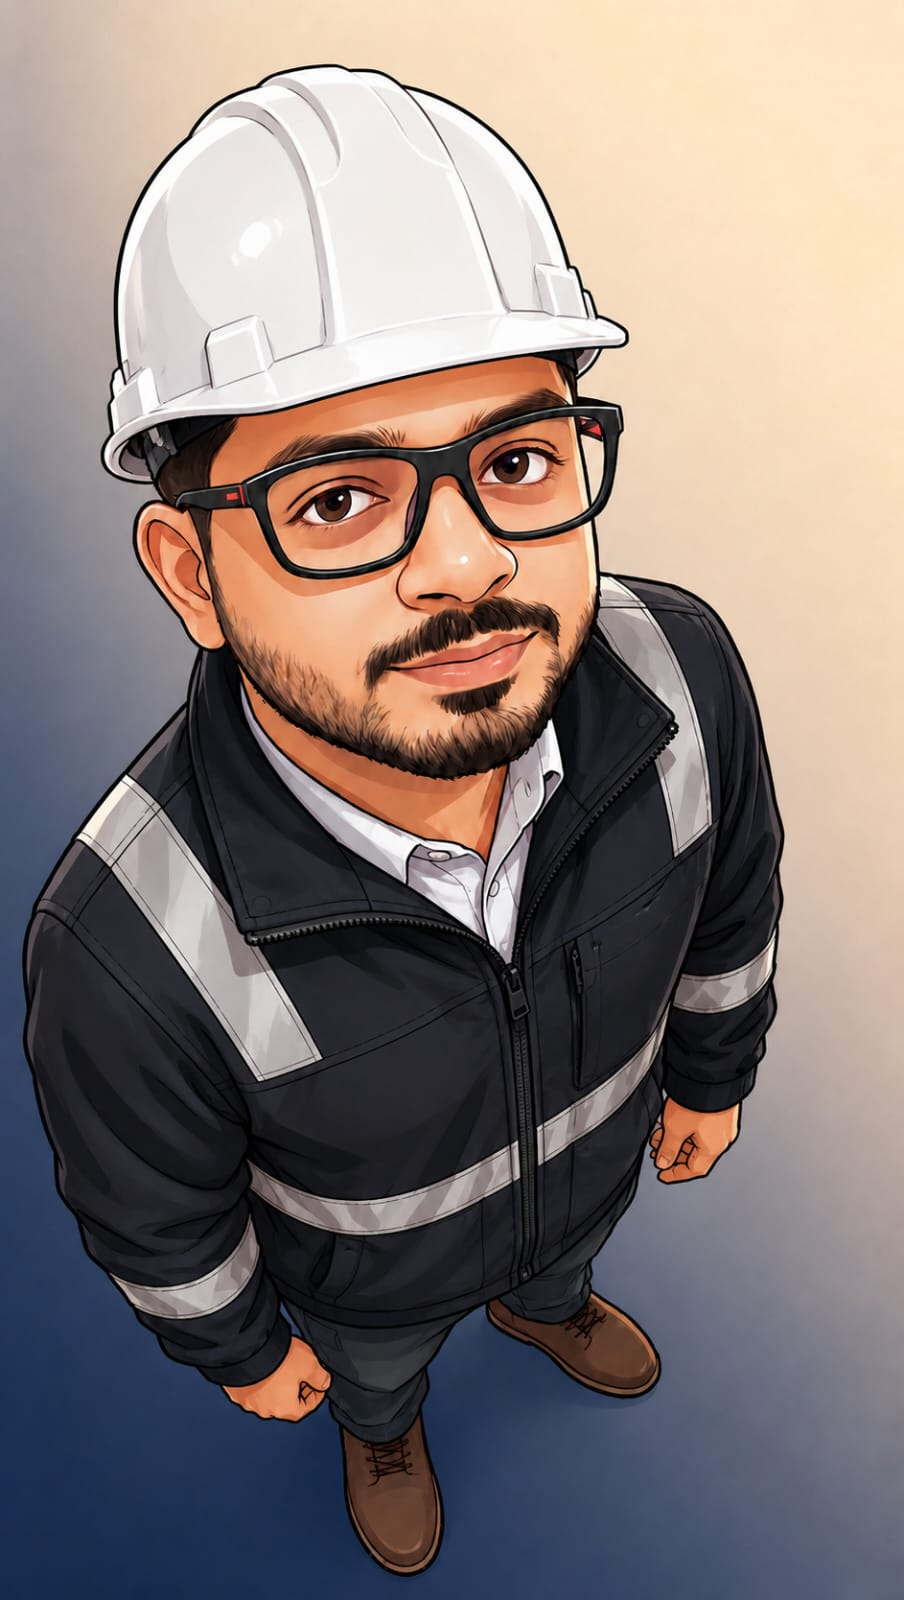
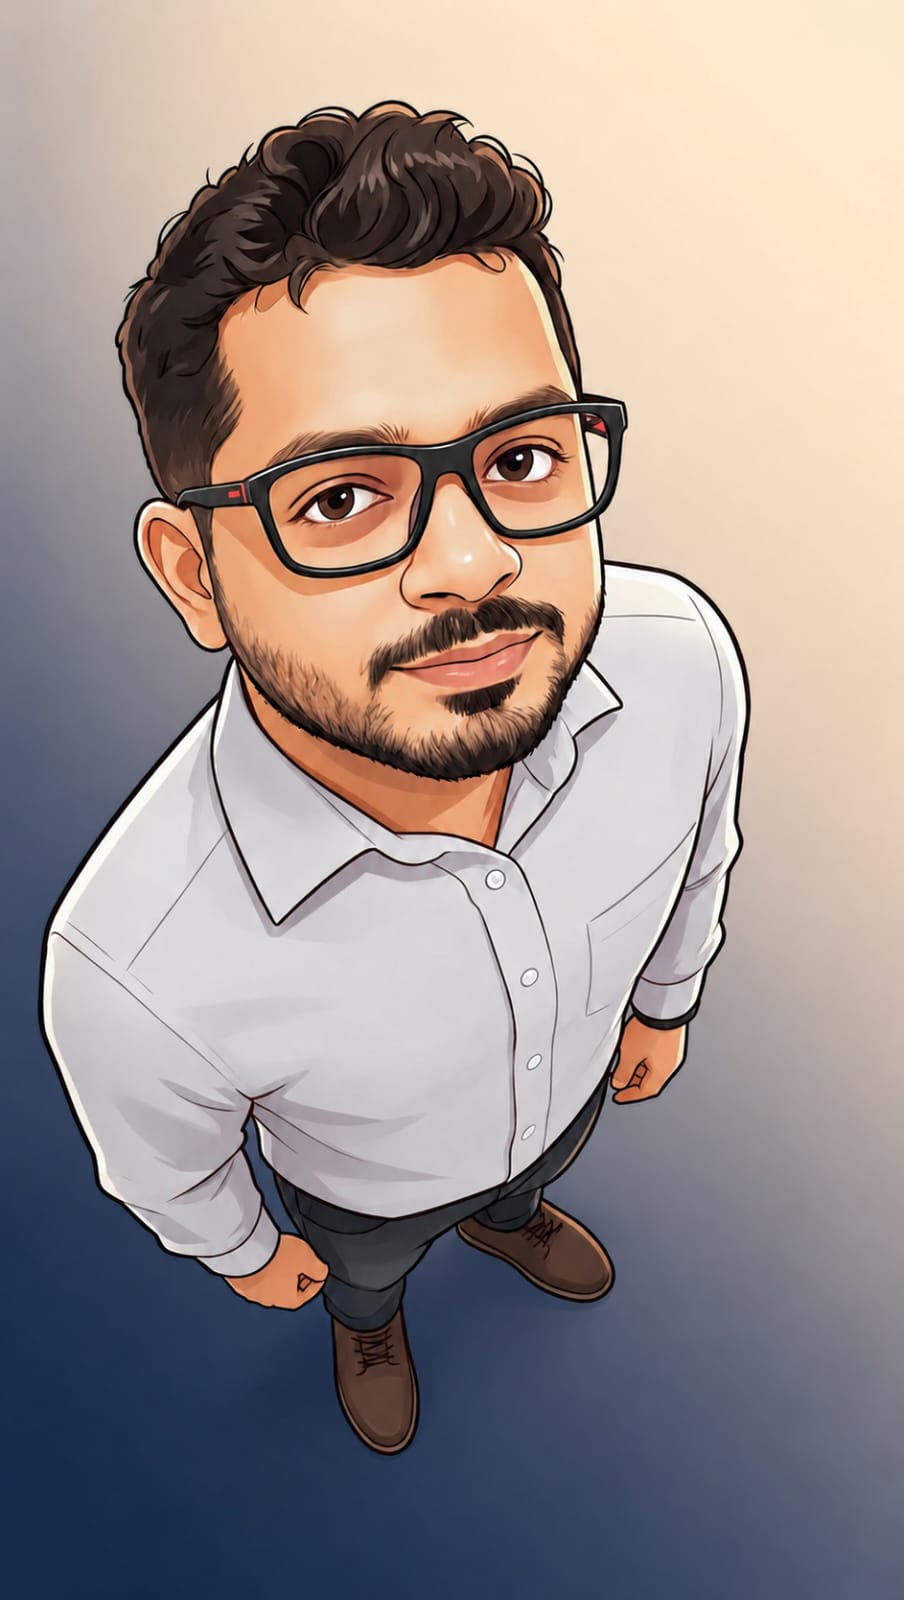
Add files via upload

diff --git a/index.html b/index.html
@@ -85,7 +85,7 @@
   }
   .nav-cta {
     display: inline-block;
-    background: var(--primary); color: var(--on-primary);
+    background: var(--primary); color: var(--primary);
     font-family: var(--ff-headline); font-weight: 700; font-size: .875rem;
     padding: .625rem 1.5rem; border-radius: .75rem;
     transition: opacity .3s;
@@ -100,10 +100,7 @@
   /* ── HERO ── */
   .hero {
     min-height: 100vh;
-    background:
-      radial-gradient(ellipse 60% 55% at 85% 15%, #e8d0b0 0%, transparent 60%),
-      radial-gradient(ellipse 50% 50% at 15% 10%, #b8c8d8 0%, transparent 55%),
-      linear-gradient(160deg, #8a9fb5 0%, #4a6275 40%, #2a3d5a 100%);
+    background: #ffffff;
     display: flex; align-items: stretch;
     padding: 0;
     position: relative; overflow: hidden;
@@ -117,21 +114,21 @@
   .hero-eyebrow {
     font-family: var(--ff-body); font-size: .75rem; font-weight: 500;
     letter-spacing: .2em; text-transform: uppercase;
-    color: rgba(232,208,176,.85); margin-bottom: 1.5rem;
+    color: var(--primary); margin-bottom: 1.5rem;
     opacity: 0; animation: fadeUp .6s ease forwards .1s;
   }
   .hero h1 {
     font-family: var(--ff-headline); font-weight: 800;
     font-size: clamp(3rem, 7vw, 5.5rem);
     line-height: .9; letter-spacing: -.04em;
-    color: var(--on-primary);
+    color: var(--primary);
     margin-bottom: 2rem;
     opacity: 0; animation: fadeUp .6s ease forwards .25s;
   }
   .hero-subtitle {
     font-family: var(--ff-body); font-weight: 300;
     font-size: clamp(1rem, 2vw, 1.2rem);
-    color: rgba(210,225,240,.85); line-height: 1.8;
+    color: var(--on-surface-variant); line-height: 1.8;
     max-width: 36rem; margin-bottom: 2.5rem;
     opacity: 0; animation: fadeUp .6s ease forwards .4s;
   }
@@ -149,13 +146,13 @@
   .btn-primary:hover { opacity: .85; }
   .btn-ghost {
     display: inline-flex; align-items: center; gap: .5rem;
-    background: transparent; color: var(--on-primary);
+    background: transparent; color: var(--primary);
     font-family: var(--ff-headline); font-weight: 700; font-size: .9rem;
     padding: .875rem 2rem; border-radius: .75rem;
-    border: 1px solid rgba(135,160,205,.3);
+    border: 1px solid rgba(0,32,70,.2);
     transition: background .3s;
   }
-  .btn-ghost:hover { background: rgba(255,255,255,.08); }
+  .btn-ghost:hover { background: rgba(0,32,70,.06); }
   /* Photo wrap: full height column, image sits flush at bottom */
   .hero-photo-wrap {
     opacity: 0; animation: fadeUp .6s ease forwards .3s;
